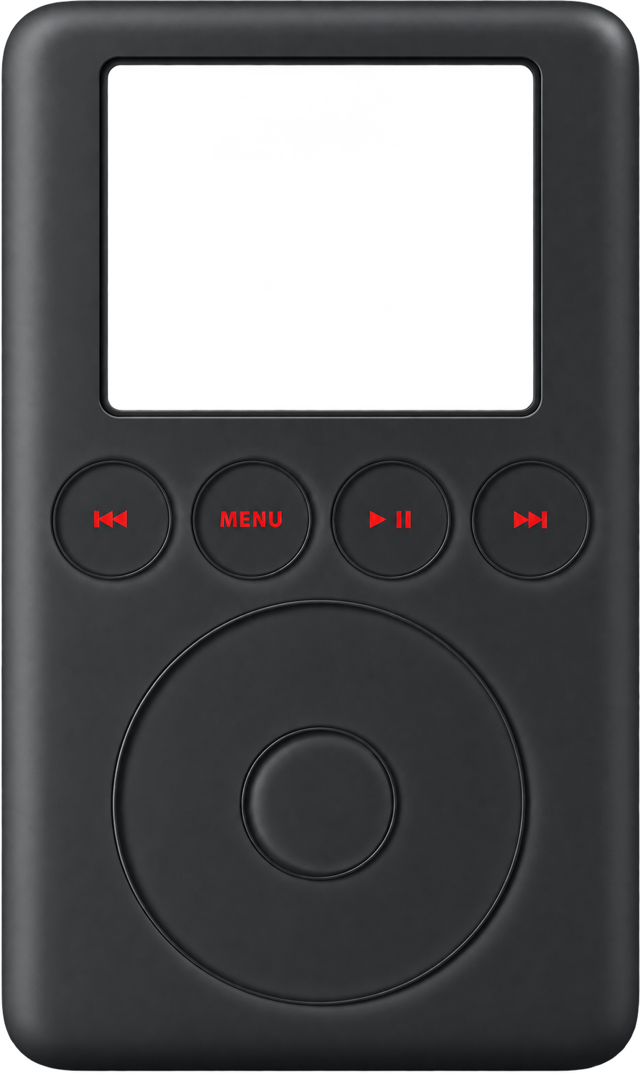
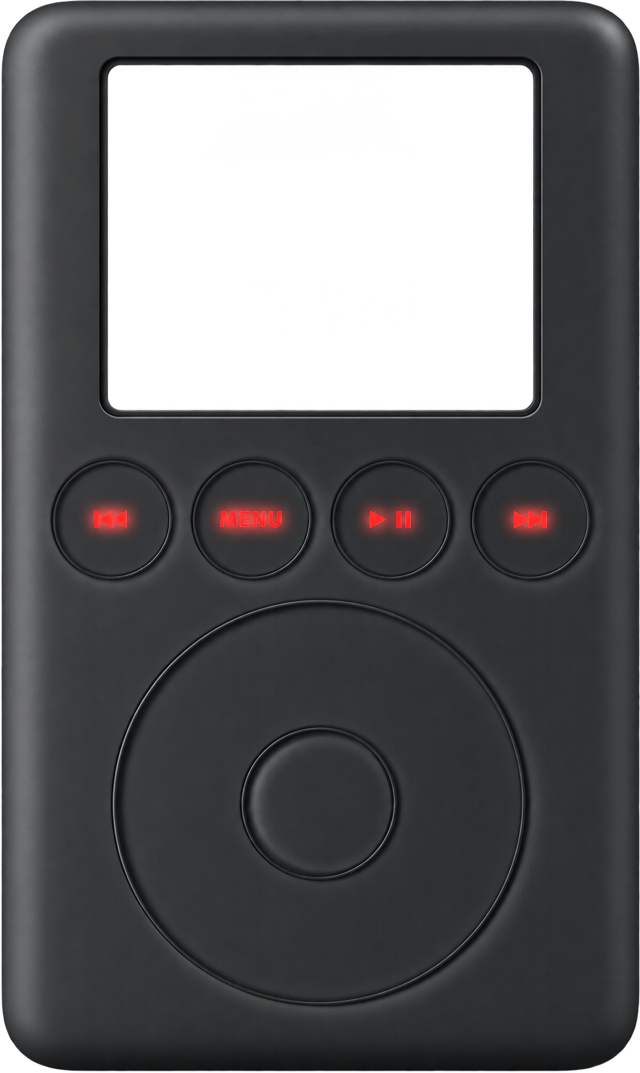
Night drift: fish cruise at 0.45x with gentler wander and wider turns in dark mode
One factor in School.step scales base speed, wander force, and turn rate when
the book is active and the theme is dark; flee bursts stay full strength.
Verified by forced-step A/B: night/day average speed ratio 0.42.
Also carries the parallel session's brighter red-button bloom baked into
ipod-3g.dark.png (user-requested).

Claude-Session: https://claude.ai/code/session_01Lxd2ezfbpYgXoBNMa5PBcN

diff --git a/js/pond/school.js b/js/pond/school.js
@@ -117,11 +117,13 @@ School.prototype.step = function (dt) {
   this.retargetIn -= dt;
   if (this.retargetIn <= 0) this.retarget();
   var ptr = this.pointer, PR2 = P.mouseRadius * P.mouseRadius, mv = P.motionVariety;
+  // night: the school drifts — slower cruise, gentler wander, wider turns (flee bursts untouched)
+  var night = Book.active() && document.documentElement.dataset.theme === 'dark' ? 0.45 : 1;
 
   for (var i = 0; i < n; i++) {
     var f = fish[i];
     var size = P.sizeMin + f.sizeNorm * (P.sizeMax - P.sizeMin);
-    var base = P.speed * (1.25 - 0.5 * f.sizeNorm);
+    var base = P.speed * (1.25 - 0.5 * f.sizeNorm) * night;
     var ax = 0, ay = 0, alx = 0, aly = 0, cx = 0, cy = 0, cnt = 0, sx = 0, sy = 0;
     var sep = P.separationRadius * (0.5 + size / 120), S2 = sep * sep;
 
@@ -142,8 +144,8 @@ School.prototype.step = function (dt) {
     ax += sx * P.separation; ay += sy * P.separation;
 
     f.wander += rand(-1, 1) * dt * 2.5; f.wander *= 0.98;
-    ax += Math.cos(f.heading + f.wander) * P.wander;
-    ay += Math.sin(f.heading + f.wander) * P.wander;
+    ax += Math.cos(f.heading + f.wander) * P.wander * night;
+    ay += Math.sin(f.heading + f.wander) * P.wander * night;
 
     if (P.roam) { ax += (this.target.x - f.x) * P.roamPull; ay += (this.target.y - f.y) * P.roamPull; }
 
@@ -180,7 +182,7 @@ School.prototype.step = function (dt) {
     var vy = Math.sin(f.heading) * f.speed + ay * dt;
     var want = Math.atan2(vy, vx);
     var delta = wrapAngle(want - f.heading);
-    var maxTurn = P.turnRate * dt;
+    var maxTurn = P.turnRate * dt * (night === 1 ? 1 : 0.65);
     if (delta > maxTurn) delta = maxTurn; else if (delta < -maxTurn) delta = -maxTurn;
     f.heading += delta;
     f.turn += ((dt > 0 ? delta / dt : 0) - f.turn) * Math.min(1, dt * 6); // smoothed angular velocity
